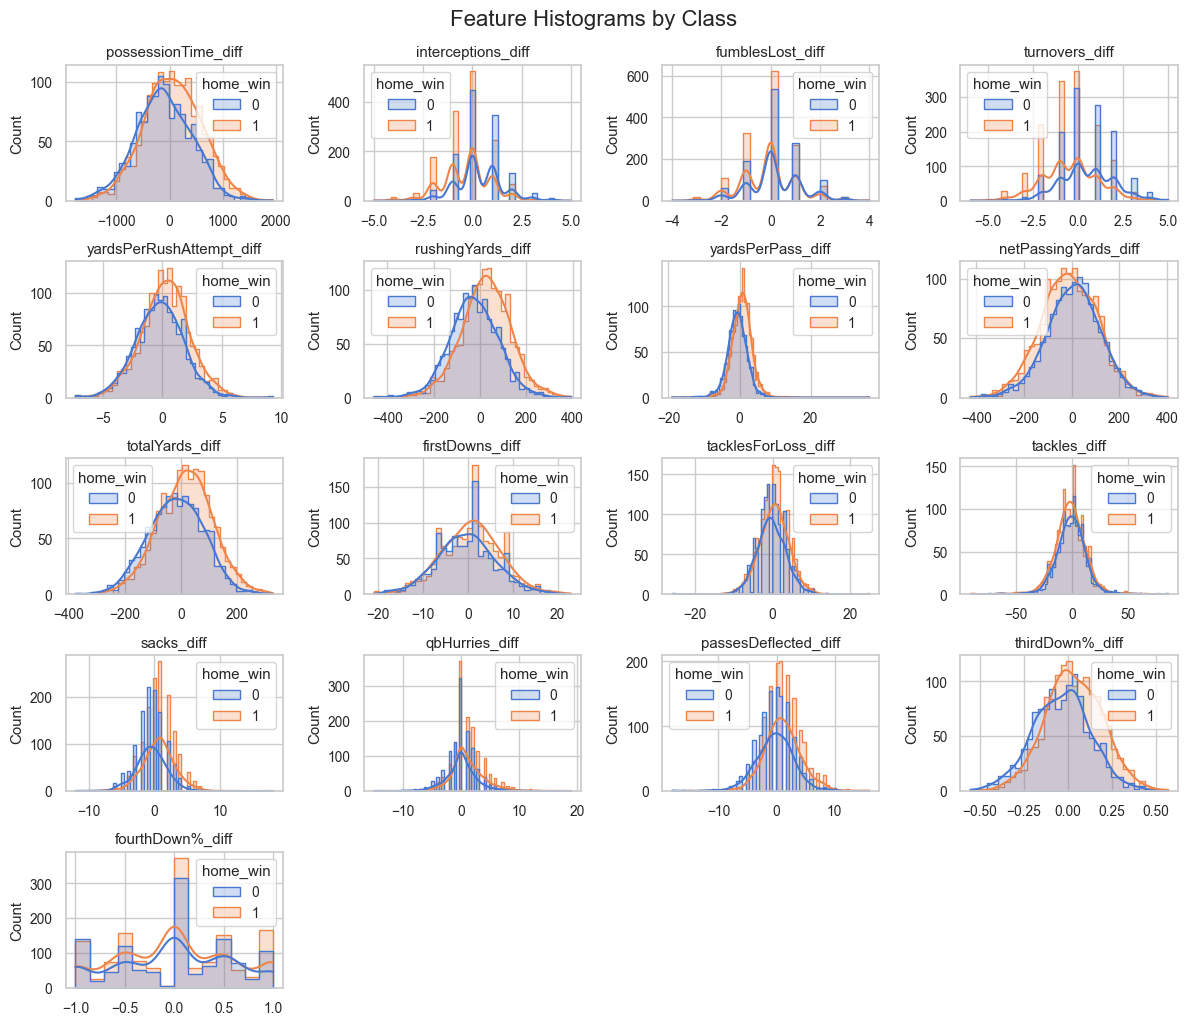
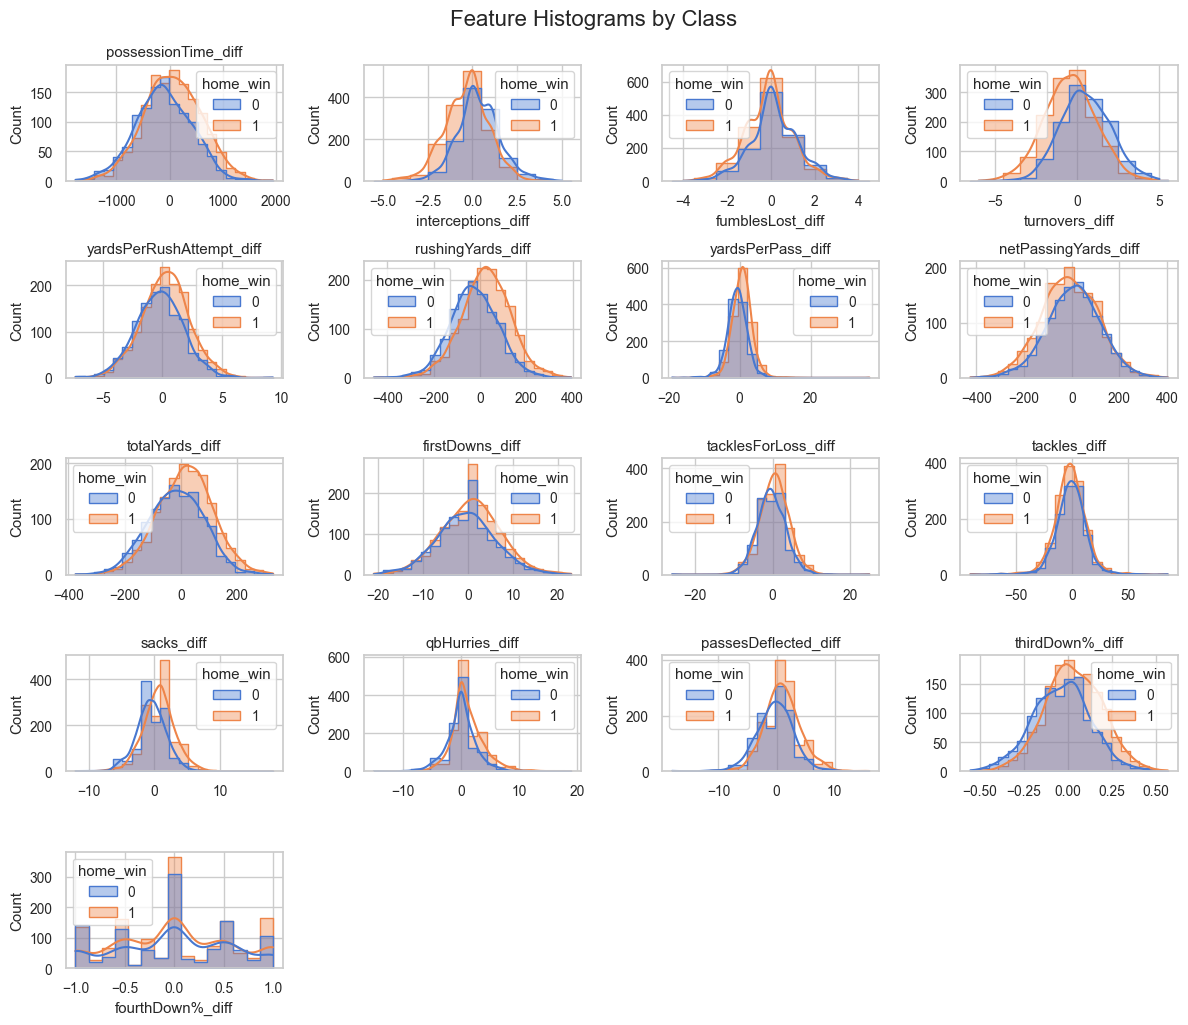
Meeting

diff --git a/EDA.py b/EDA.py
@@ -3,7 +3,6 @@ import pandas as pd
 import numpy as np
 import math
 import matplotlib.pyplot as plt
-import sklearn
 import requests
 from bs4 import BeautifulSoup
 import json
@@ -35,7 +34,12 @@ axes = axes.flatten()
 # HISTOGRAMS
 for i, col in enumerate(X.columns):
     ax = axes[i]
-    sns.histplot(X[col], kde=True, ax=ax, bins=20, color='skyblue')
+    if col in ["interceptions_diff", "fumblesLost_diff", "turnovers_diff"]:
+        sns.histplot(X[col], kde=True, kde_kws={"bw_adjust": 1.5}, ax=ax, bins=np.arange(X[col].min() - 0.5, X[col].max() + 1.5, 1), color='skyblue')
+    elif col == "fourthDown%_diff":
+        sns.histplot(X[col], kde=True, ax=ax, bins=15, color='skyblue')
+    else:
+        sns.histplot(X[col], kde=True, ax=ax, bins=21, color='skyblue')
     ax.set_title(col)
     ax.set_xlabel("")
     ax.set_ylabel("Count")
@@ -82,10 +86,43 @@ axes = axes.flatten()
 
 for i, col in enumerate(X.columns):
     ax = axes[i]
-    sns.histplot(data=df, x=col, hue=y, kde=True, element="step", ax=ax)
-    ax.set_title(col)
-    ax.set_xlabel("")
-    ax.set_ylabel("Count")
+    if col in ["interceptions_diff", "fumblesLost_diff", "turnovers_diff"]:
+        sns.histplot(
+            data=df,
+            x=col,
+            hue=y,
+            kde=True,
+            kde_kws={"bw_adjust": 1.5},
+            element="step",
+            ax=ax,
+            bins=np.arange(df[col].min() - 0.5, df[col].max() + 1.5, 1),
+            alpha=0.4
+        )
+    elif col == "fourthDown%_diff":
+        sns.histplot(
+            data=df,
+            x=col,
+            hue=y,
+            kde=True,
+            element="step",
+            ax=ax,
+            bins=15,
+            alpha=0.4
+        )
+    else:
+        sns.histplot(
+            data=df,
+            x=col,
+            hue=y,
+            kde=True,
+            element="step",
+            ax=ax,
+            bins=21,
+            alpha=0.4
+        )
+        ax.set_title(col)
+        ax.set_xlabel("")
+        ax.set_ylabel("Count")
 
 for j in range(i + 1, len(axes)):
     fig.delaxes(axes[j])

diff --git a/MachineLearning.py b/MachineLearning.py
@@ -1,0 +1,40 @@
+# IMPORTS =====================================================================
+import pandas as pd
+import numpy as np
+import math
+import matplotlib.pyplot as plt
+import requests
+from bs4 import BeautifulSoup
+import json
+import time
+import seaborn as sns
+from sklearn.model_selection import train_test_split
+from sklearn.ensemble import RandomForestClassifier
+from sklearn.metrics import accuracy_score
+
+# SPLITTING DATA INTO TRAIN AND TEST ==========================================
+df = pd.read_csv('/Users/harounshah/Downloads/Senior Thesis/final_data.csv')
+
+print(f"\nMatrix Dimensions w/ all Features: {df.shape}\n")
+
+y = df['home_win']
+X = df.filter(like="diff", axis=1) # Taking only the difference features
+
+X_train, X_test, y_train, y_test = train_test_split(X, y, test_size=0.2, random_state=42, stratify=y)
+
+# RANDOM FOREST ===============================================================
+rf_model = RandomForestClassifier(n_estimators=200, random_state=42)
+
+rf_model.fit(X_train, y_train)
+
+y_pred = rf_model.predict(X_test)
+
+accuracy = accuracy_score(y_test, y_pred)
+print("Random Forest Test Accuracy:", accuracy)
+
+importances = pd.Series(rf_model.feature_importances_, index=X.columns)
+importances.sort_values().plot(kind="barh", figsize=(6,8))
+plt.title("Feature Importances")
+plt.savefig("Figure")
+
+# RANDOM FOREST ===============================================================

diff --git a/DataPrep.py b/DataPrep.py
@@ -3,7 +3,6 @@ import pandas as pd
 import numpy as np
 import math
 import matplotlib.pyplot as plt
-import sklearn
 import requests
 from bs4 import BeautifulSoup
 import json

diff --git a/DataCollection.py b/DataCollection.py
@@ -3,7 +3,6 @@ import pandas as pd
 import numpy as np
 import math
 import matplotlib.pyplot as plt
-import sklearn
 import requests
 import os
 from bs4 import BeautifulSoup
